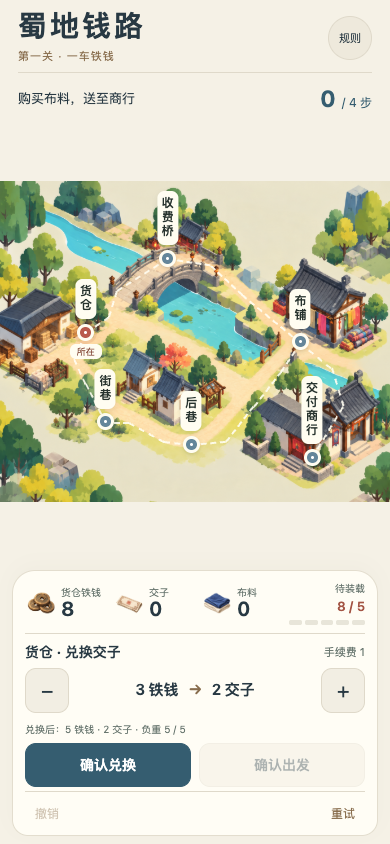
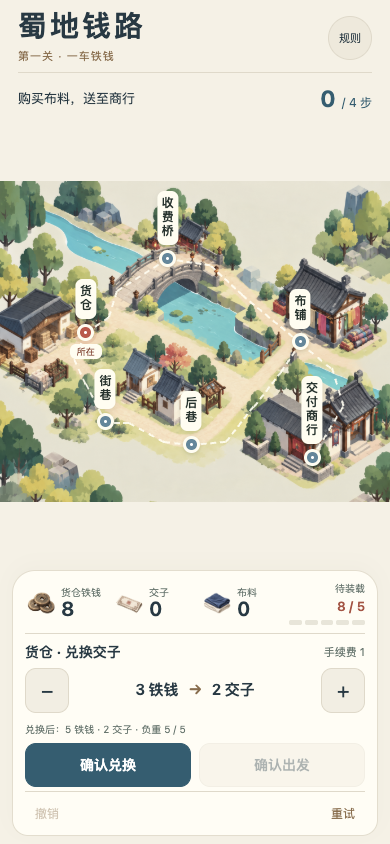
Soften artwork saturation across game screens

diff --git a/miniapp/styles/game.css b/miniapp/styles/game.css
@@ -33,3 +33,7 @@ html,body,page{margin:0;height:100%;overflow:hidden;background:#e9e8df;color:var
 .dock{flex-basis:auto}
 .feedback:empty{display:none}
 .wallet + .feedback:empty + .action-panel,.wallet + .action-panel{margin-top:8px}
+
+/* Grade artwork consistently without filtering live text or state markers. */
+.scene-tile img,.scene-tile image,.approved-cover img,.approved-cover image,
+.resource-icon,.intro-art,.result-art{filter:saturate(var(--art-saturation))}

diff --git a/miniapp/styles/tokens.css b/miniapp/styles/tokens.css
@@ -1,5 +1,6 @@
-/* Reference-led V0.1 design tokens; original vector stand-ins, not final artwork. */
+/* Shared visual tokens for the reference-led illustrated interface. */
 page,:root{
+ --art-saturation:.62;
  --paper:#f5f1e6;--white:#fffdf7;--surface:#eee9dc;--ink:#283943;--muted:#68766f;
  --blue:#355d70;--gold:#b68e57;--brown:#886d4d;--green:#8fa48c;--water:#a9cbd0;
  --line:#dfd9ca;--danger:#a35444;--radius:20px;--small-radius:12px;

diff --git a/docs/visual-spec.md b/docs/visual-spec.md
@@ -25,6 +25,7 @@
 |主操作、辅助蓝|#355d70|
 |铜金、木棕|#b68e57、#886d4d|
 |景观绿、水蓝|#8fa48c、#a9cbd0|
+|插画饱和度|统一 `--art-saturation: .62`，应用于地图、首页、资源图标和结算插画；文字及交互标记不受滤镜影响|
 |边框、错误|#dfd9ca、#a35444|
 |字号|11/12/14/18/28px；地点牌12px；标题使用系统衬线|
 |圆角|主面板约20px、按钮11–12px、地点牌7px|
